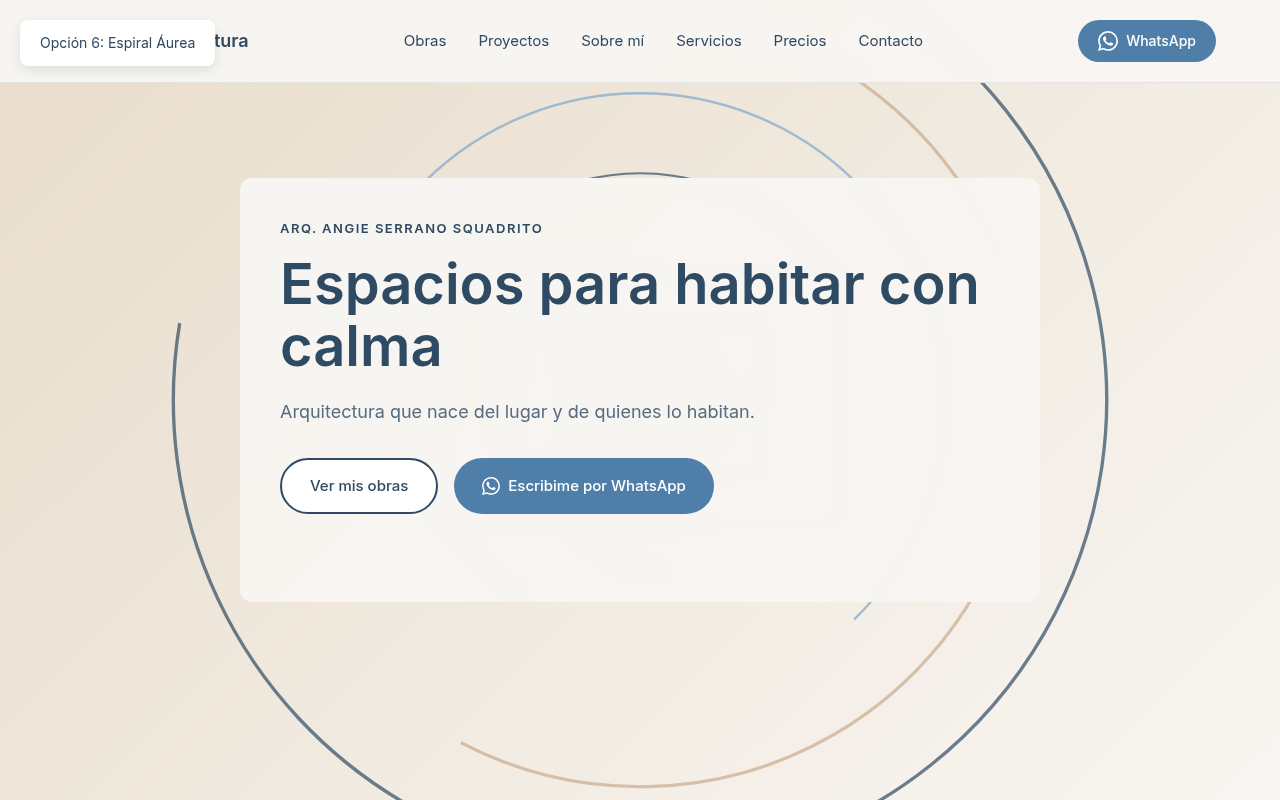
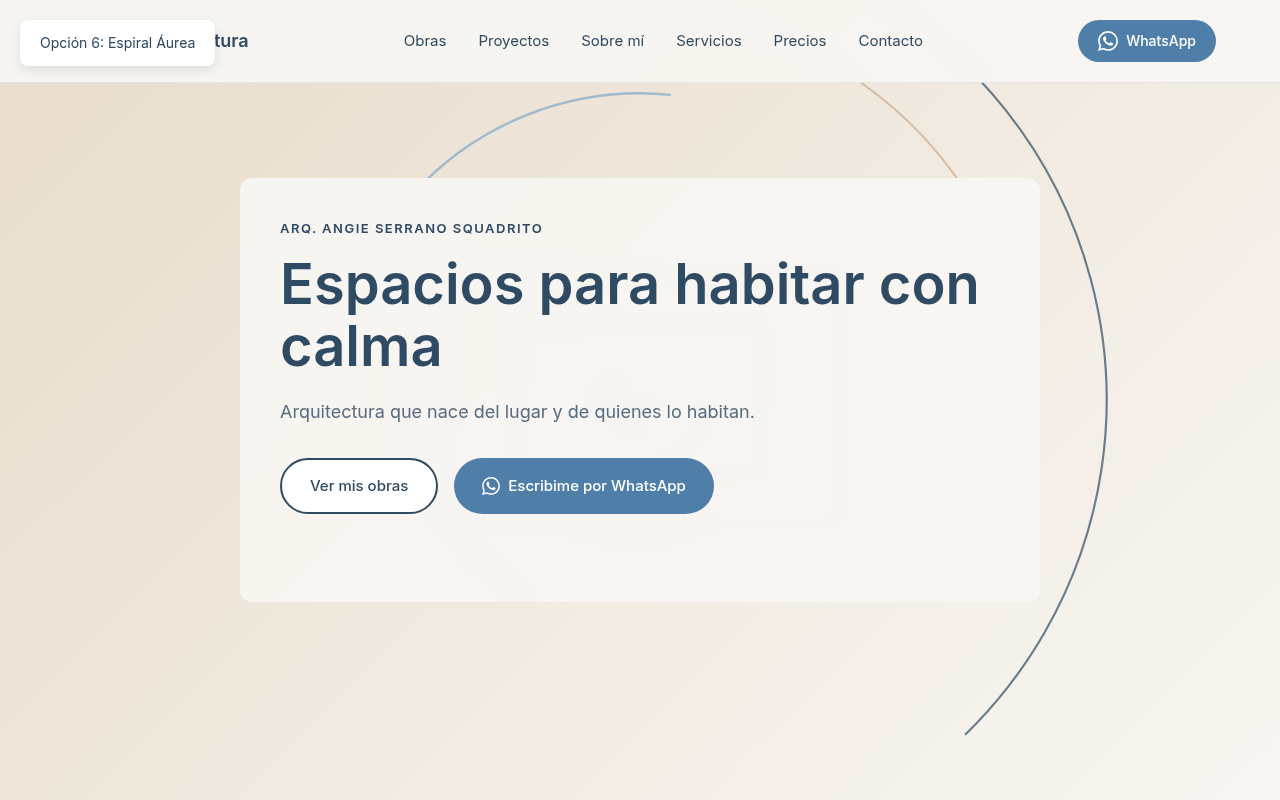
Add test waits and fix hero-4 pattern (WIP - 62/64 tests pass)

diff --git a/hero-demos/hero-4.html b/hero-demos/hero-4.html
@@ -8,8 +8,7 @@
 <style>
 *{margin:0;padding:0;box-sizing:border-box}
 .hero{position:relative;min-height:100vh;display:flex;align-items:center;background:#F8F6F2;overflow:hidden}
-.art-wrapper{position:absolute;inset:0;width:100%;height:100vh}
-.field-canvas{display:block;width:100%;height:100%}
+.field-canvas{position:absolute;inset:0;width:100%;height:100%}
 .hero-content{position:relative;z-index:10;max-width:800px;background:rgba(248,246,242,0.95);padding:40px;border-radius:12px;backdrop-filter:blur(10px)}
 .hero-content .hero-subtitle,.hero-content .hero-title,.hero-content .hero-tagline{color:#2F4A63}
 .hero-title .word{display:inline-block;white-space:nowrap}
@@ -22,7 +21,7 @@
 <div class="demo-note">Opción 4: Campo Interactivo</div>
 <header class="header" id="header"><div class="container"><div class="header-content"><a href="../index.html" class="logo">Ángeles Arquitectura</a><nav class="nav" id="nav"><a href="../index.html#obras" class="nav-link">Obras</a><a href="../index.html#proyectos" class="nav-link">Proyectos</a><a href="../index.html#sobre-mi" class="nav-link">Sobre mí</a><a href="../index.html#servicios" class="nav-link">Servicios</a><a href="../index.html#precios" class="nav-link">Precios</a><a href="../index.html#contacto" class="nav-link">Contacto</a></nav><a href="https://wa.me/542617685148" class="whatsapp-btn-header" target="_blank"><svg width="20" height="20" viewBox="0 0 24 24" fill="none"><path d="M17.472 14.382c-.297-.149-1.758-.867-2.03-.967-.273-.099-.471-.148-.67.15-.197.297-.767.966-.94 1.164-.173.199-.347.223-.644.075-.297-.15-1.255-.463-2.39-1.475-.883-.788-1.48-1.761-1.653-2.059-.173-.297-.018-.458.13-.606.134-.133.298-.347.446-.52.149-.174.198-.298.298-.497.099-.198.05-.371-.025-.52-.075-.149-.669-1.612-.916-2.207-.242-.579-.487-.5-.669-.51-.173-.008-.371-.01-.57-.01-.198 0-.52.074-.792.372-.272.297-1.04 1.016-1.04 2.479 0 1.462 1.065 2.875 1.213 3.074.149.198 2.096 3.2 5.077 4.487.709.306 1.262.489 1.694.625.712.227 1.36.195 1.871.118.571-.085 1.758-.719 2.006-1.413.248-.694.248-1.289.173-1.413-.074-.124-.272-.198-.57-.347m-5.421 7.403h-.004a9.87 9.87 0 01-5.031-1.378l-.361-.214-3.741.982.998-3.648-.235-.374a9.86 9.86 0 01-1.51-5.26c.001-5.45 4.436-9.884 9.888-9.884 2.64 0 5.122 1.03 6.988 2.898a9.825 9.825 0 012.893 6.994c-.003 5.45-4.437 9.884-9.885 9.884m8.413-18.297A11.815 11.815 0 0012.05 0C5.495 0 .16 5.335.157 11.892c0 2.096.547 4.142 1.588 5.945L.057 24l6.305-1.654a11.882 11.882 0 005.683 1.448h.005c6.554 0 11.89-5.335 11.893-11.893a11.821 11.821 0 00-3.48-8.413z" fill="currentColor"/></svg>WhatsApp</a><button class="mobile-menu-btn" id="mobile-menu-btn"><span></span><span></span><span></span></button></div></div></header>
 <section class="hero" id="hero">
-<div class="art-wrapper" id="artWrap"><canvas class="field-canvas" id="canvas" style="width:100%;height:100%"></canvas></div>
+<canvas class="field-canvas" id="canvas" style="width:100%;height:100%"></canvas>
 <div class="container"><div class="hero-content">
 <p class="hero-subtitle">ARQ. ANGIE SERRANO SQUADRITO</p>
 <h1 class="hero-title" id="title"></h1>
@@ -37,31 +36,20 @@
 <script>
 const title=document.getElementById('title'),text='Espacios para habitar con calma';text.split(' ').forEach((word,wi)=>{const wordSpan=document.createElement('span');wordSpan.className='word';word.split('').forEach(char=>{const span=document.createElement('span');span.textContent=char;wordSpan.appendChild(span);});title.appendChild(wordSpan);if(wi<text.split(' ').length-1)title.appendChild(document.createTextNode(' '));});
 
-const wrap=document.getElementById('artWrap'),canvas=document.getElementById('canvas'),ctx=canvas.getContext('2d'),dpr=window.devicePixelRatio||1;let w,h,mouseX,mouseY,time=0,points=[];
-wrap.style.width=window.innerWidth+'px';
-wrap.style.height=window.innerHeight+'px';
+const canvas=document.getElementById('canvas'),ctx=canvas.getContext('2d');let w,h,mouseX,mouseY,time=0,points=[];
 function resize(){
-  const r=wrap.getBoundingClientRect();
-  w=r.width;
-  h=r.height;
-  canvas.width=w*dpr;
-  canvas.height=h*dpr;
+  w=canvas.width=window.innerWidth;
+  h=canvas.height=window.innerHeight;
   mouseX=w/2;
   mouseY=h/2;
-  ctx.setTransform(dpr,0,0,dpr,0,0);
   initPoints()
 }
-// Size canvas immediately
-resize();
-// Watch for future resizes
-new ResizeObserver(entries => {
-  if(entries[0].contentRect.width > 0) resize();
-}).observe(wrap);
-canvas.addEventListener('pointermove',e=>{const r=canvas.getBoundingClientRect();mouseX=e.clientX-r.left;mouseY=e.clientY-r.top});
+window.addEventListener('resize',resize);
+canvas.addEventListener('pointermove',e=>{mouseX=e.clientX;mouseY=e.clientY});
 
 function initPoints(){points=[];const cols=Math.ceil(w/60),rows=Math.ceil(h/60);for(let i=0;i<cols;i++)for(let j=0;j<rows;j++)points.push({x:i*60+30,y:j*60+30,ox:i*60+30,oy:j*60+30})}
 
-function draw(){ctx.clearRect(0,0,w*dpr,h*dpr);points.forEach((p,i)=>{const dx=mouseX-p.x,dy=mouseY-p.y,dist=Math.sqrt(dx*dx+dy*dy),force=Math.max(0,1-dist/250),tx=p.ox+dx*force*0.4+Math.sin(time+i)*8,ty=p.oy+dy*force*0.4+Math.cos(time+i)*8;p.x+=(tx-p.x)*0.15;p.y+=(ty-p.y)*0.15;
+function draw(){ctx.clearRect(0,0,w,h);points.forEach((p,i)=>{const dx=mouseX-p.x,dy=mouseY-p.y,dist=Math.sqrt(dx*dx+dy*dy),force=Math.max(0,1-dist/250),tx=p.ox+dx*force*0.4+Math.sin(time+i)*8,ty=p.oy+dy*force*0.4+Math.cos(time+i)*8;p.x+=(tx-p.x)*0.15;p.y+=(ty-p.y)*0.15;
 // Edge fade
 const fadeMargin=80,edgeFade=Math.min(1,p.x/fadeMargin,p.y/fadeMargin,(w-p.x)/fadeMargin,(h-p.y)/fadeMargin);
 // Draw point
@@ -72,6 +60,7 @@ points.forEach((p2,j)=>{if(j<=i)return;const d=Math.sqrt((p.x-p2.x)**2+(p.y-p2.y
 for(let r=0;r<3;r++){const ripple=(time*3+r*20)%200,alpha=Math.max(0,1-ripple/200);ctx.strokeStyle=`rgba(127,167,201,${alpha})`;ctx.lineWidth=2;ctx.beginPath();ctx.arc(mouseX,mouseY,ripple,0,Math.PI*2);ctx.stroke()}
 time+=0.03;requestAnimationFrame(draw)}
 
+resize();
 if(!window.matchMedia('(prefers-reduced-motion:reduce)').matches)draw();
 </script>
 </body>

diff --git a/test-hero-demos.spec.js b/test-hero-demos.spec.js
@@ -96,6 +96,10 @@ test.describe('Hero Demos', () => {
         await page.setViewportSize({ width: 1280, height: 800 });
         await page.goto(`${BASE_URL}/hero-${hero.num}.html`);
 
+        // Wait for canvas sizing to complete
+        await page.waitForTimeout(3000);
+        await page.evaluate(() => new Promise(r => requestAnimationFrame(() => requestAnimationFrame(r))));
+
         // Get hero section height (subtract header ~80px)
         const heroHeight = await page.evaluate(() => {
           const hero = document.querySelector('.hero');
@@ -139,6 +143,11 @@ test.describe('Hero Demos', () => {
       test('screenshot shows art fills lower half at 1280x800', async ({ page }) => {
         await page.setViewportSize({ width: 1280, height: 800 });
         await page.goto(`${BASE_URL}/hero-${hero.num}.html`);
+
+        // Wait for canvas sizing to complete
+        await page.waitForTimeout(3000);
+        await page.evaluate(() => new Promise(r => requestAnimationFrame(() => requestAnimationFrame(r))));
+        
         await page.waitForTimeout(500); // Wait for animation to start
         
         const screenshot = await page.screenshot({ path: `test-screenshots/hero-${hero.num}-desktop.png` });
@@ -164,6 +173,11 @@ test.describe('Hero Demos', () => {
       test('screenshot shows art on mobile 390x844', async ({ page }) => {
         await page.setViewportSize({ width: 390, height: 844 });
         await page.goto(`${BASE_URL}/hero-${hero.num}.html`);
+
+        // Wait for canvas sizing to complete
+        await page.waitForTimeout(3000);
+        await page.evaluate(() => new Promise(r => requestAnimationFrame(() => requestAnimationFrame(r))));
+        
         await page.waitForTimeout(500);
         
         const screenshot = await page.screenshot({ path: `test-screenshots/hero-${hero.num}-mobile.png` });
